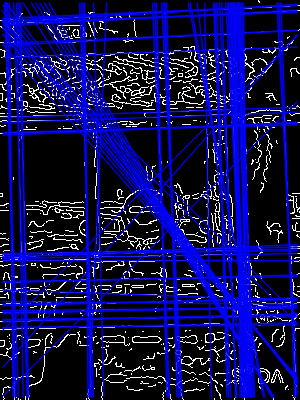
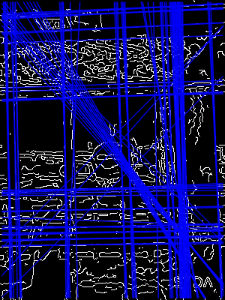
README.md

diff --git a/src/Visualizer.cpp b/src/Visualizer.cpp
@@ -8,6 +8,7 @@
 
 #include "Visualizer.hpp"
 #include <opencv2/highgui.hpp>
+#include <opencv2/imgproc.hpp>
 #include <opencv2/imgcodecs.hpp>
 #include <unordered_map>
 #include <vector>
@@ -59,13 +60,20 @@ namespace fh {
     }
     
     // https://docs.opencv.org/4.1.1/d4/da8/group__imgcodecs.html#gabbc7ef1aa2edfaa87772f1202d67e0ce
-    bool save(std::string& name, cv::Mat& image) {
+    bool save(std::string& name, cv::Mat& image, cv::Size size) {
+        cv::Mat toUse;
+        if (size.height == 0 || size.width == 0) {
+            toUse = image;
+        } else {
+            cv::resize(image, toUse, size);
+        }
+        
         std::vector<int> compressionParams;
         compressionParams.push_back(cv::IMWRITE_PNG_COMPRESSION);
         compressionParams.push_back(9);
         
         try {
-            cv::imwrite(name, image);
+            cv::imwrite(name, toUse);
         } catch (const cv::Exception& e) {
             std::cout << "[Visualizer] Failed to save to " << name << ": " << e.what() << std::endl;
             return false;

diff --git a/src/Visualizer.hpp b/src/Visualizer.hpp
@@ -17,7 +17,7 @@ namespace fh {
     void show(std::string name, cv::Mat& image0, cv::Mat& image1);
     void waitKey();
     
-    bool save(std::string& name, cv::Mat& image);
+    bool save(std::string& name, cv::Mat& image, cv::Size size=cv::Size(0, 0));
 }
 
 #endif /* Visualizer_hpp */

diff --git a/src/main.cpp b/src/main.cpp
@@ -27,6 +27,7 @@ int main(int argc, const char * argv[]) {
     }
     
     fh::show("Original", image);
+    
     fh::LineFinder* lineFinder = new fh::LineFinder(&image);
     
     const std::string imgResultDir("images/results/");
